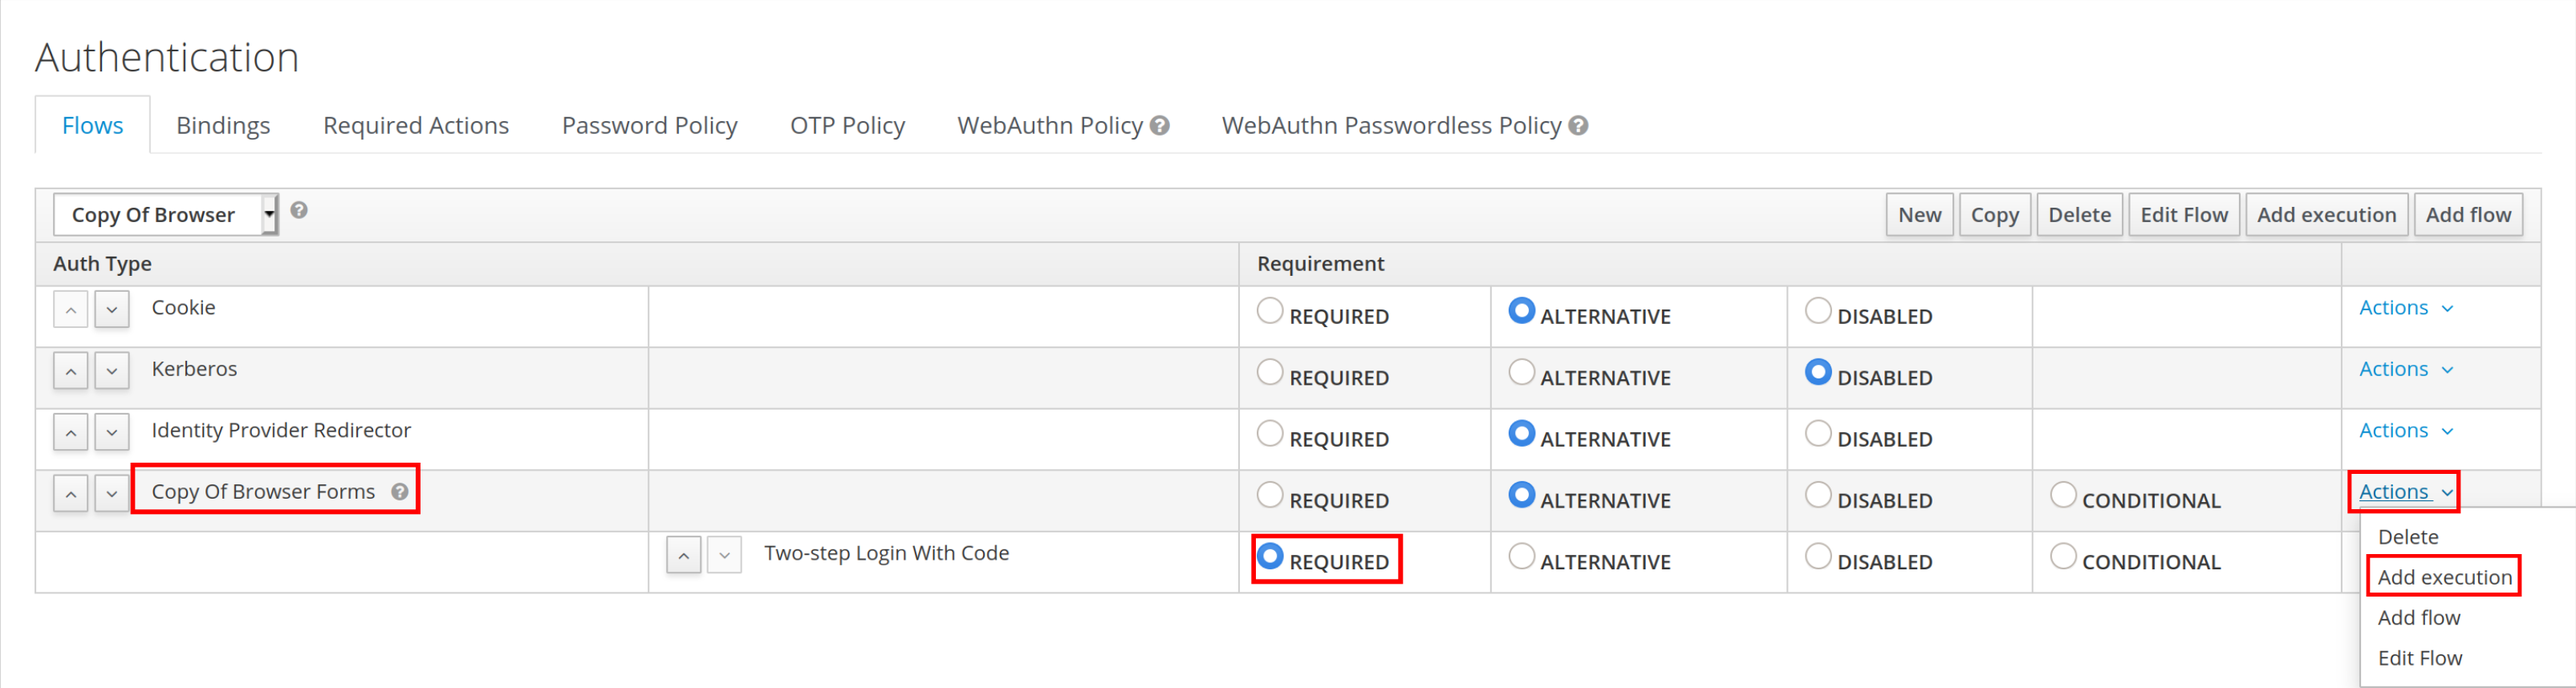
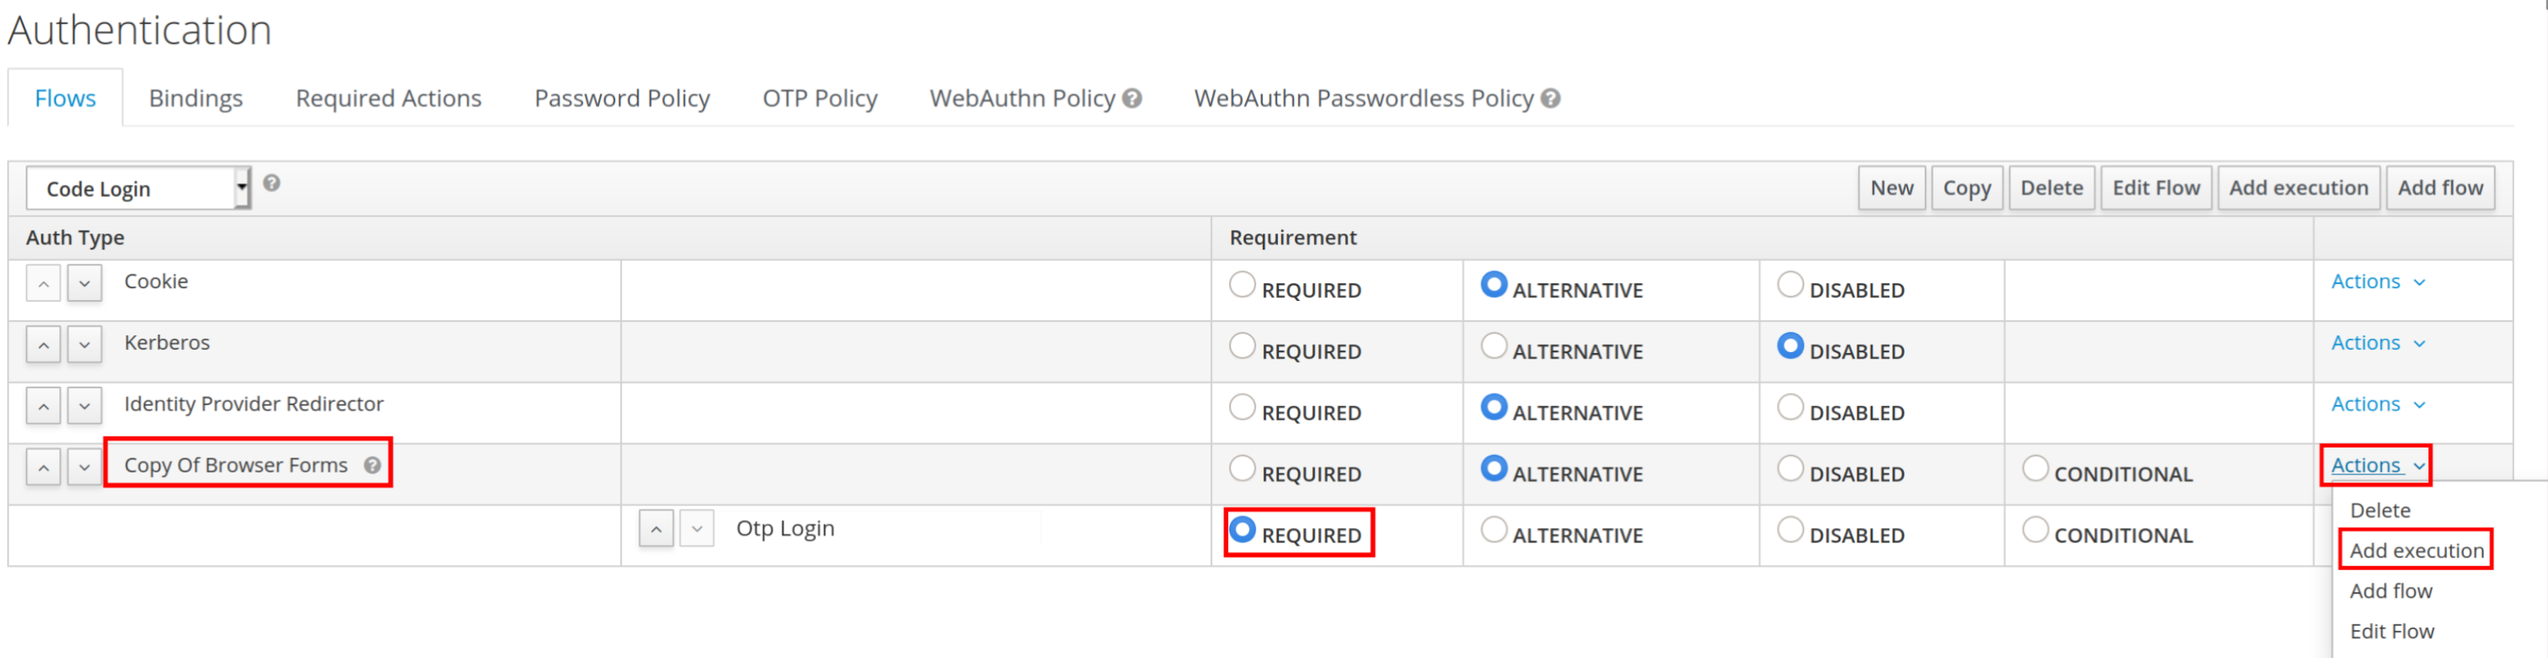
renaming project

diff --git a/src/main/java/de/intension/keycloak/TwoStepLoginWithCodeAuthenticatorFactory.java b/src/main/java/de/intension/keycloak/TwoStepLoginWithCodeAuthenticatorFactory.java
@@ -1,5 +1,6 @@
 package de.intension.keycloak;
 
+import java.util.Collections;
 import java.util.List;
 
 import org.keycloak.Config;
@@ -14,7 +15,7 @@ public class TwoStepLoginWithCodeAuthenticatorFactory
     implements AuthenticatorFactory
 {
 
-    public static final String                                      ID                  = "two-step-login-with-code";
+    public static final String                                      ID                  = "keycloak-otp-login";
 
     private static final AuthenticationExecutionModel.Requirement[] REQUIREMENT_CHOICES = {
             AuthenticationExecutionModel.Requirement.REQUIRED,
@@ -62,19 +63,19 @@ public class TwoStepLoginWithCodeAuthenticatorFactory
     @Override
     public String getDisplayType()
     {
-        return "Two-step login with code";
+        return "Otp Login";
     }
 
     @Override
     public String getHelpText()
     {
-        return "Two-step login with code";
+        return "Otp Login";
     }
 
     @Override
     public List<ProviderConfigProperty> getConfigProperties()
     {
-        return null;
+        return Collections.emptyList();
     }
 
     @Override

diff --git a/src/test/java/de/intension/keycloak/LoginFlowTest.java b/src/test/java/de/intension/keycloak/LoginFlowTest.java
@@ -7,6 +7,7 @@ import java.net.http.HttpClient;
 import java.net.http.HttpClient.Version;
 import java.net.http.HttpRequest;
 import java.net.http.HttpResponse;
+import java.util.Arrays;
 import java.util.concurrent.TimeUnit;
 
 import org.junit.jupiter.api.MethodOrderer.OrderAnnotation;
@@ -16,15 +17,23 @@ import org.junit.jupiter.api.TestMethodOrder;
 import org.junit.jupiter.api.extension.ExtendWith;
 import org.openqa.selenium.By;
 import org.openqa.selenium.firefox.FirefoxDriver;
+import org.openqa.selenium.firefox.FirefoxOptions;
 import org.openqa.selenium.support.ui.ExpectedConditions;
 import org.openqa.selenium.support.ui.WebDriverWait;
 
+import io.github.bonigarcia.seljup.Options;
 import io.github.bonigarcia.seljup.SeleniumJupiter;
 
 @ExtendWith(SeleniumJupiter.class)
 @TestMethodOrder(OrderAnnotation.class)
 class LoginFlowTest extends KeycloakExtensionTestBase
 {
+
+    @Options
+    FirefoxOptions firefoxOptions = new FirefoxOptions();
+    {
+        firefoxOptions.addArguments(Arrays.asList("--headless"));
+    }
 
     /**
      * GIVEN: user with email

diff --git a/src/main/java/de/intension/keycloak/SecureCode.java b/src/main/java/de/intension/keycloak/SecureCode.java
@@ -13,9 +13,9 @@ public class SecureCode
      */
     public String generateCode(int codeLength)
     {
-        int leftLimit = 50; // 48: numeral '0'
+        var leftLimit = 50; // 48: numeral '0'
                             // changed to 50 to avoid possible confusion with 0 or 1 with O,l or I
-        int rightLimit = 90; // 122: to letter 'z'
+        var rightLimit = 90; // 122: to letter 'z'
                              // 90: to letter 'Z'
 
         return random.ints(leftLimit, rightLimit + 1)

diff --git a/src/test/java/de/intension/keycloak/KeycloakExtensionTestBase.java b/src/test/java/de/intension/keycloak/KeycloakExtensionTestBase.java
@@ -39,7 +39,7 @@ public class KeycloakExtensionTestBase
     @BeforeAll
     public static void beforeClass()
     {
-        keycloak = new KeycloakDevContainer("keycloak-two-step-login-with-code");
+        keycloak = new KeycloakDevContainer("keycloak-otp-login");
         keycloak.withReuse(true);
         keycloak.withExposedPorts(8080, 8787);
         keycloak.withFixedExposedPort(8787, 8787);

diff --git a/src/main/java/de/intension/keycloak/EmailSender.java b/src/main/java/de/intension/keycloak/EmailSender.java
@@ -24,7 +24,7 @@ public class EmailSender
         EmailTemplateProvider emailSender = session.getProvider(EmailTemplateProvider.class);
         emailSender.setRealm(realm);
 
-        boolean result = true;
+        var result = true;
         try {
             emailSender.setUser(user);
             emailSender.send(code + " Login Code", "loginCode.ftl", createCodeLoginAttributes(code));

diff --git a/README.md b/README.md
@@ -9,9 +9,13 @@ It grants improved security, by removing the security issues of user created pas
 Developed and tested in Keycloak version 12.0.1.
 Tested for 13.0.1.
 
+## Testing
+
+For the LoginFlowTest testing the Maildev container must be running.
+
 ## How to configure in Keycloak
 
- 1. Once  `keycloak-two-step-login-with-code` is deployed on your server, (re-)start said server.
+ 1. Once  `keycloak-otp-login` is deployed on your server, (re-)start said server.
  
     You can use `./restart.sh` in the root directory of the project.
  
@@ -21,13 +25,13 @@ Tested for 13.0.1.
  3. Delete `Username Password Form` and `Browser - Conditional OTP` in your new flows Forms.
    ![image](images/executions-to-delete.png)
    
- 4. Add a new execution to `*your flow name* Forms` using the `two-step-login-with-code` provider and set its requirement to `REQUIRED`.
+ 4. Add a new execution to `*your flow name* Forms` using the `keycloak-otp-login` provider and set its requirement to `REQUIRED`.
    ![image](images/add-execution.png)
    
  5. Switch to the `Bindings` tab and change your Browser Flow to your new flow and save the settings.
    ![image](images/change-browser-flow.png)
    
- 6. Now open the `Realm Settings`, go to the `Themes` tab and select the `2S-Login` for the Login- aswell as the Email Theme.
+ 6. Now open the `Realm Settings`, go to the `Themes` tab and select the `Otp-Login` for the Login- aswell as the Email Theme.
    ![image](images/change-themes.png)
 
  7. Enable `Internationalization` and remove all the `Supported Locales` except `de` and `en` (and any languages you added) and set the `Default Locale` to your preference and save.
